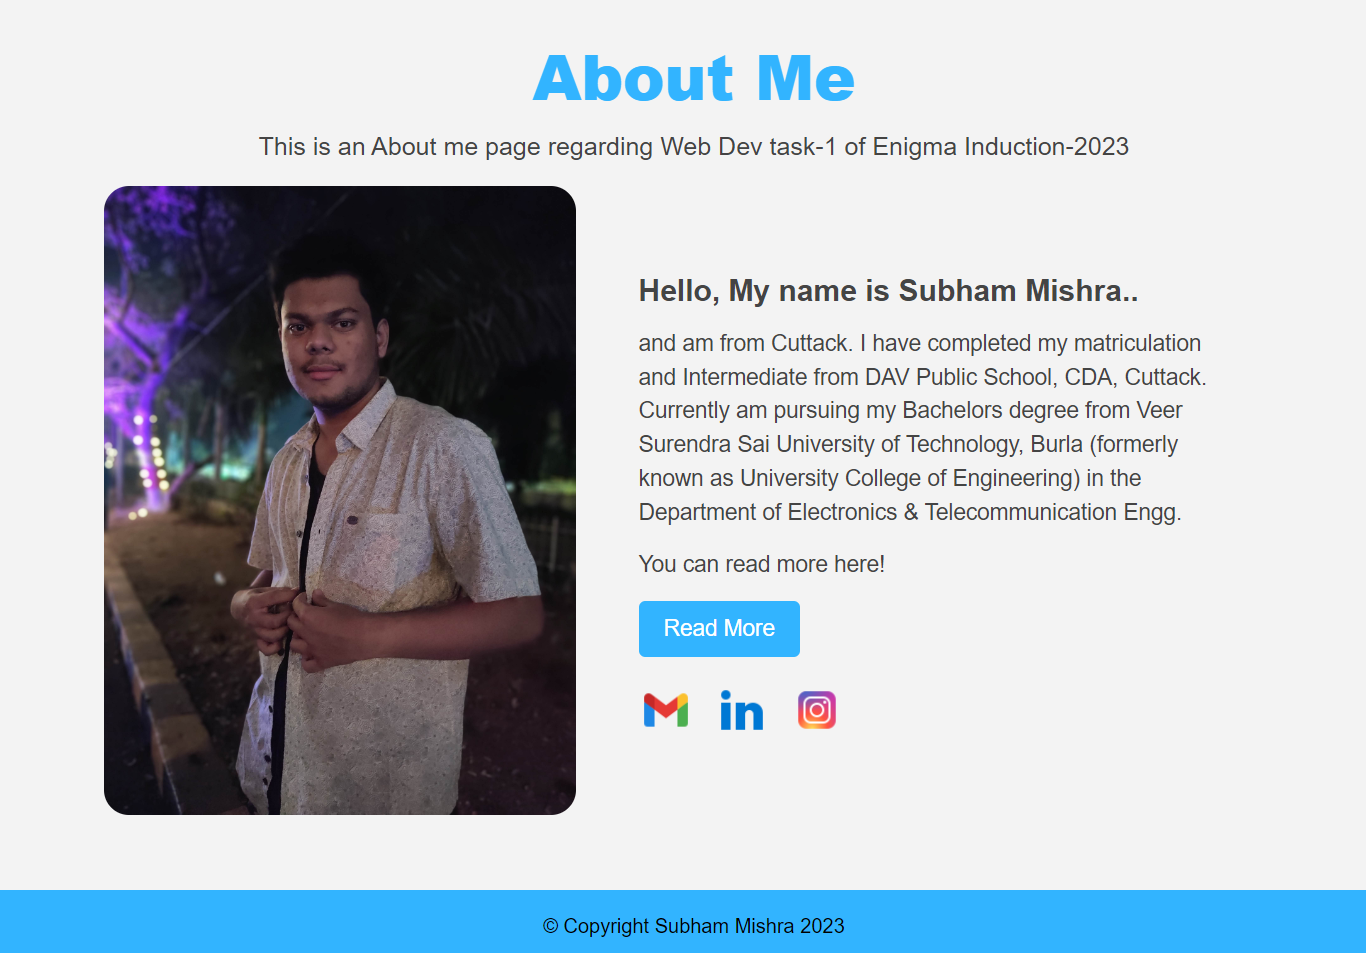
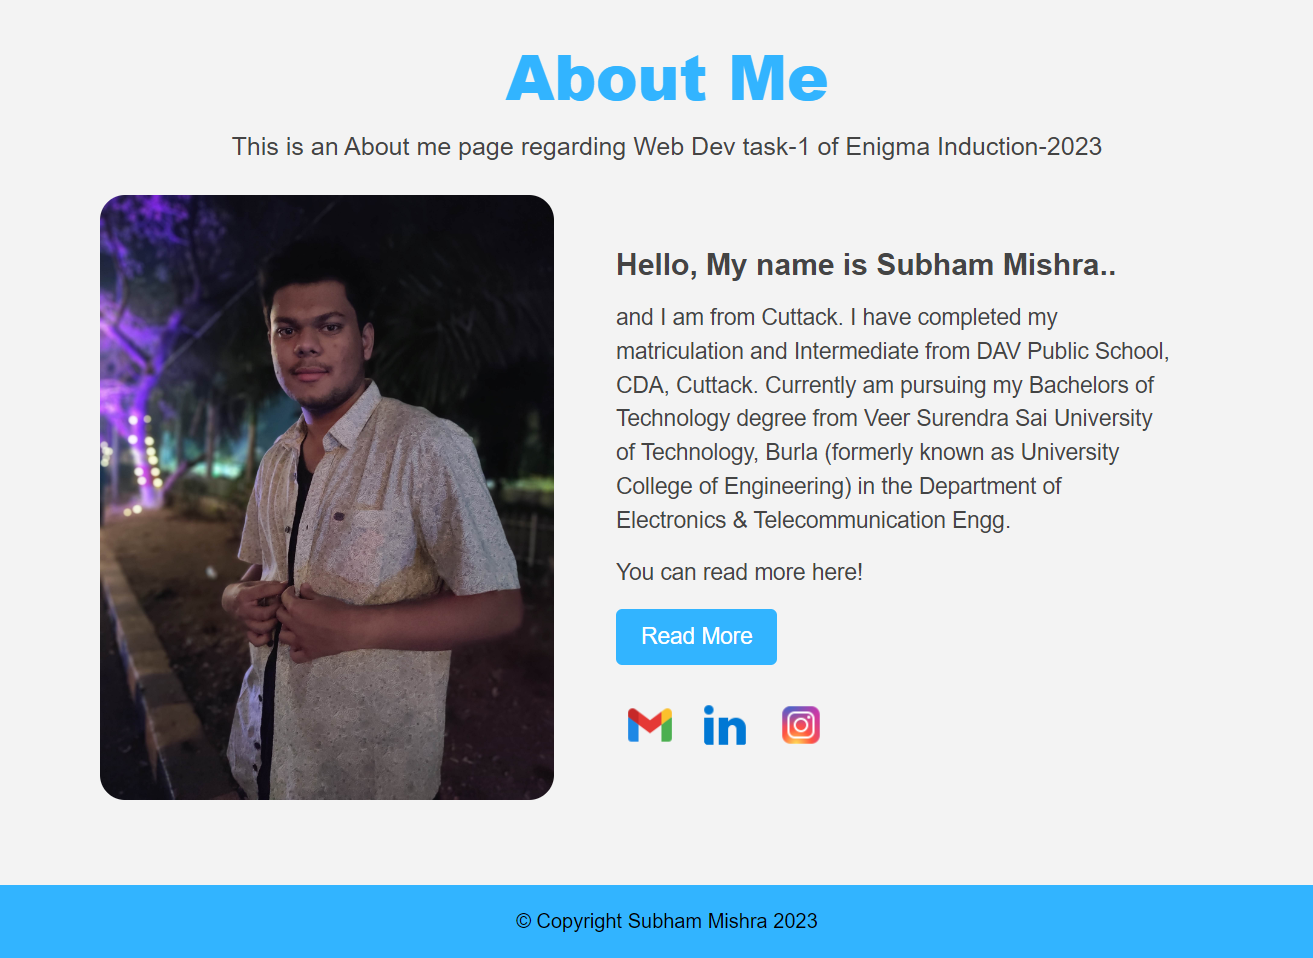
Web Developement task 1 completed

diff --git a/Web Development/Task-1/Task Submission/Subham Mishra/css/read_more_style.css b/Web Development/Task-1/Task Submission/Subham Mishra/css/read_more_style.css
@@ -4,11 +4,12 @@
     background-color: rgb(243, 243, 243);
     font-family: sans-serif;
 }
+
 .page{
     display: flex;
     text-align: center;
-    margin-top: 20px;
-    margin-bottom: 134px;
+    margin-top: 50px;
+    margin-bottom: 50px;
 }
 h1{
     font-size: 50px;
@@ -28,6 +29,7 @@ p{
     font-weight: 200;
     color: #444;
 }
+
 .interests{
     width: 33.33%;
 }
@@ -64,19 +66,37 @@ p{
     position: relative;
     top: -4px;
 }
-
 .gallery img:hover{
     position: relative;
     top: -4px;
 }
 
-
+.home{
+    text-align: center;
+}
+.home button{
+    margin: 0px 15px;
+    display: inline-block;
+    color: #fff;
+    background-color: rgb(50, 180, 255);
+    border: none;
+    border-radius: 5px;
+    padding: 12px 20px;
+    font-size: 18px;
+    cursor: pointer;
+    transition: 0.08s ease-in;
+}
+.home button:hover{
+    background-color: rgb(0, 144, 227);
+    box-shadow: #444;
+}
 
 footer{
     max-width: 100%;
     padding: 20px;
     background-color: rgb(50, 180, 255);
     text-align: center;
+    margin-top: 30px;
 }
 
 @media screen and (max-width: 820px){
@@ -99,6 +119,17 @@ footer{
     }
     .gallery h1{
         margin-top: 20px;
+    }
+}
+
+@media screen and (max-width: 600px){
+    .home button{
+        border-radius: 5px;
+        padding: 10px 16px;
+        font-size: 16px;
+    }
+    footer{
+        margin-top: 50px;
     }
 }
 

diff --git a/Web Development/Task-1/Task Submission/Subham Mishra/index.html b/Web Development/Task-1/Task Submission/Subham Mishra/index.html
@@ -1,6 +1,6 @@
 <html lang="en">
 <head>
-    <link rel="stylesheet" href="style.css">
+    <link rel="stylesheet" href="css/style.css">
     <meta charset="UTF-8">
     <meta http-equiv="X-UA-Compatible" content="IE=edge">
     <meta name="viewport" content="width=device-width, initial-scale=1.0">
@@ -19,10 +19,10 @@
         <div class="message">
             <h2>Hello, My name is Subham Mishra..</h2>
             <p>
-                and am from Cuttack. I have completed my matriculation and Intermediate
-                from DAV Public School, CDA, Cuttack. Currently am pursuing my Bachelors degree from Veer Surendra
+                and I am from Cuttack. I have completed my matriculation and Intermediate
+                from DAV Public School, CDA, Cuttack. Currently am pursuing my Bachelors of Technology degree from Veer Surendra
                 Sai University of Technology, Burla (formerly known as University College of Engineering) in the Department
-                of Electronics & Telecommunication Engg. 
+                of Electronics & Telecommunication Engg.
             </p>
             <p>You can read more here!</p>
             <a href="read_more.html"><button class="read_more">Read More</button></a>

diff --git a/Web Development/Task-1/Task Submission/Subham Mishra/read_more.html b/Web Development/Task-1/Task Submission/Subham Mishra/read_more.html
@@ -1,6 +1,6 @@
 <html lang="en">
 <head>
-    <link rel="stylesheet" href="read_more_style.css">
+    <link rel="stylesheet" href="css/read_more_style.css">
     <meta charset="UTF-8">
     <meta http-equiv="X-UA-Compatible" content="IE=edge">
     <meta name="viewport" content="width=device-width, initial-scale=1.0">
@@ -39,6 +39,9 @@
             <img src="img/5.jpg">
             <img src="img/2.jpg">
         </div>
+    </div>
+    <div class="home">
+        <a href="index.html"><button>Home Page</button></a>
     </div>
     <footer>
         © Copyright Subham Mishra 2023

diff --git a/Web Development/Task-1/Task Submission/Subham Mishra/css/style.css b/Web Development/Task-1/Task Submission/Subham Mishra/css/style.css
@@ -68,6 +68,13 @@ header{
 }
 .links img{
     max-width: 100%;
+    max-height: 100%;
+    padding: 5px;
+    border: 0;
+    border-radius: 20px;
+}
+.links li img:hover{
+    background-color: #ccc;
 }
 
 
